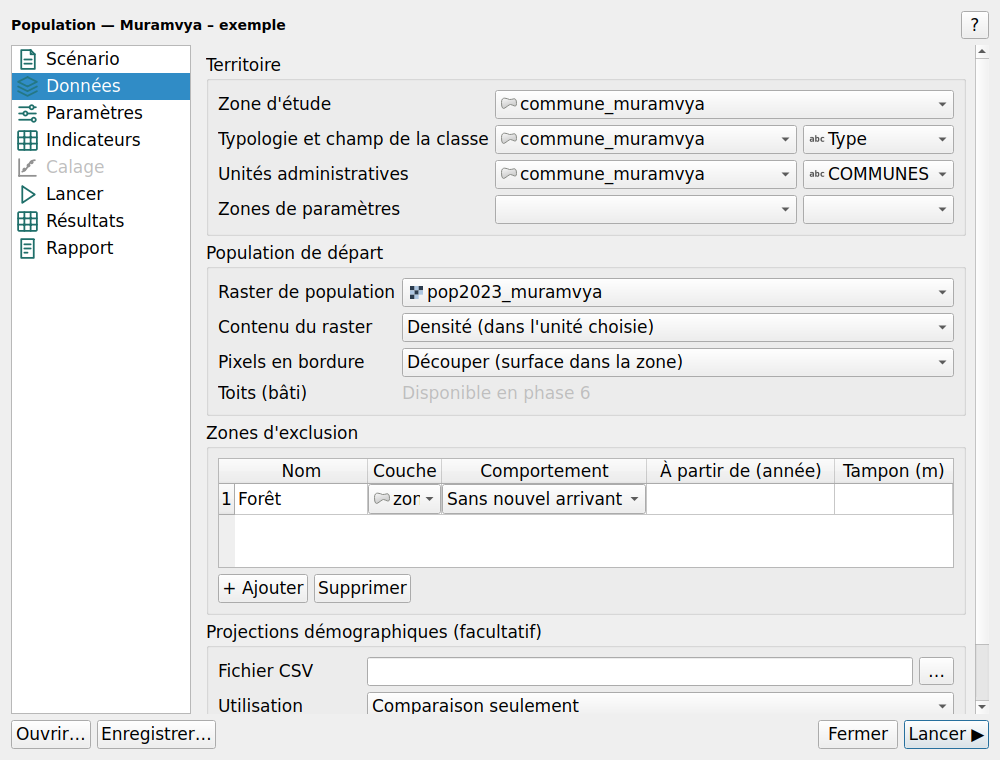
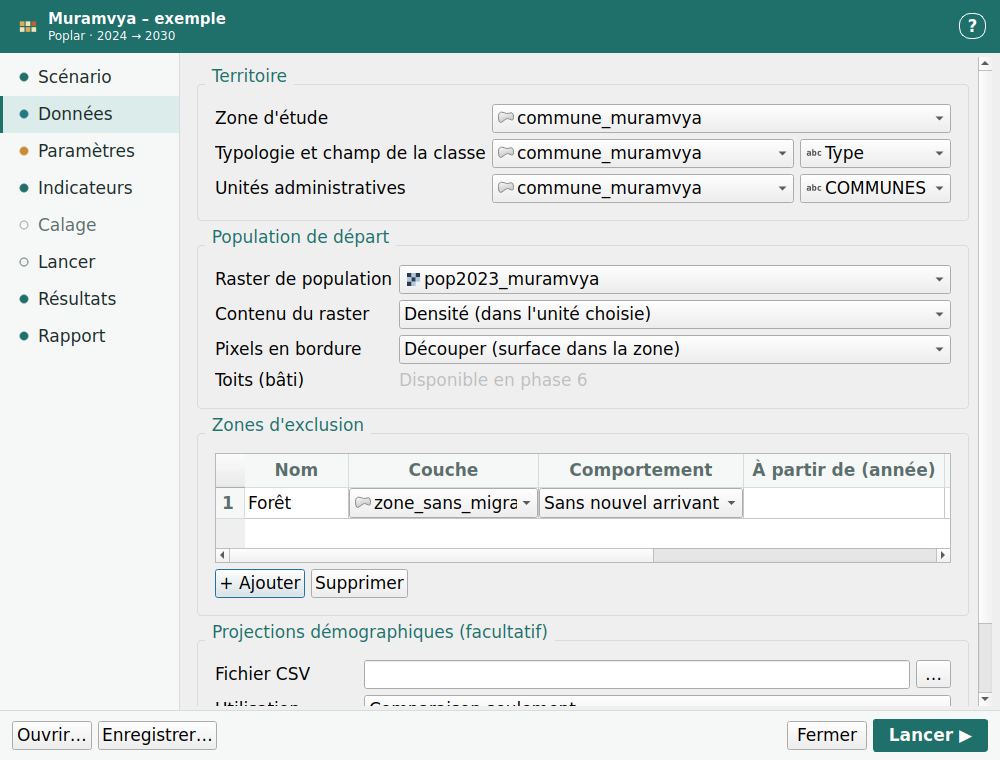
Nouvelle charte graphique du plugin (pétrole et ocre, variante sombre)
Bandeau titre avec le scénario et sa période, pastille d'état par onglet
(complet, à vérifier, vide), titres de section, bouton principal,
feuille de style Qt uniquement. Captures régénérées par
tools/capture_plugin.py, en clair et en sombre.

Claude-Session: https://claude.ai/code/session_01FtiHWBUMwcLLmZhJNMgosW

diff --git a/plugin/poplar/ui/main_dialog.py b/plugin/poplar/ui/main_dialog.py
@@ -19,13 +19,12 @@ from ..results import load_rasters
 from ..task import RunTask
 from .cleanup_dialog import CleanupDialog, run_title
 from .nonconvergence_dialog import NonConvergenceDialog
+from .style import state_icon, stylesheet, tokens
 from .pages import (
     CalibrationPage, DataPage, IndicatorsPage, ParametersPage, ReportPage, ResultsPage, RunPage, ScenarioPage,
 )
 
 ICONS = os.path.join(os.path.dirname(os.path.dirname(__file__)), "icons")
-PAGE_ICONS = {"scenario": "scenario", "data": "data", "parameters": "parameters", "indicators": "results",
-              "calibration": "calibration", "run": "run", "results": "results", "report": "report"}
 HELP_PAGES = {"scenario": "parametres_et_scenario", "data": "parametres_et_scenario",
               "parameters": "parametres_et_scenario", "indicators": "resultats_et_indicateurs",
               "calibration": "prise_en_main", "run": "non_convergence", "results": "resultats_et_indicateurs",
@@ -58,26 +57,46 @@ class MainDialog(QDialog):
         self.setWindowTitle(tr("main.title"))
         self.resize(980, 720)
 
+        self.colours = tokens(self)
+        self.setStyleSheet(stylesheet(self.colours))
+        self.last_check = None
         layout = QVBoxLayout(self)
-        header = QHBoxLayout()
+        layout.setContentsMargins(0, 0, 0, 0)
+        layout.setSpacing(0)
+        header_frame = QFrame()
+        header_frame.setObjectName("header")
+        header = QHBoxLayout(header_frame)
+        header.setContentsMargins(14, 10, 14, 10)
+        logo = QLabel()
+        logo.setPixmap(QIcon(os.path.join(ICONS, "poplar.svg")).pixmap(28, 28))
+        header.addWidget(logo)
+        titles = QVBoxLayout()
+        titles.setSpacing(0)
         self.title = QLabel()
-        self.title.setStyleSheet("font-weight: 600; font-size: 14px")
-        header.addWidget(self.title, 1)
+        self.title.setObjectName("title")
+        self.subtitle = QLabel()
+        self.subtitle.setObjectName("subtitle")
+        titles.addWidget(self.title)
+        titles.addWidget(self.subtitle)
+        header.addLayout(titles, 1)
         help_button = QToolButton()
+        help_button.setObjectName("help")
         help_button.setText("?")
         help_button.setToolTip(tip("main.help"))
         help_button.clicked.connect(lambda: self.help_opener(HELP_PAGES.get(self.current_key(), "prise_en_main")))
         header.addWidget(help_button)
-        layout.addLayout(header)
+        layout.addWidget(header_frame)
 
         body = QHBoxLayout()
+        body.setSpacing(0)
         self.tabs = QListWidget()
+        self.tabs.setObjectName("tabs")
         self.tabs.setFixedWidth(180)
         self.stack = QStackedWidget()
         self.pages = [ScenarioPage(self), DataPage(self), ParametersPage(self), IndicatorsPage(self),
                       CalibrationPage(self), RunPage(self), ResultsPage(self), ReportPage(self)]
         for page in self.pages:
-            item = QListWidgetItem(QIcon(os.path.join(ICONS, f"{PAGE_ICONS[page.key]}.svg")), tr(f"tab.{page.key}"))
+            item = QListWidgetItem(state_icon("empty", self.colours), tr(f"tab.{page.key}"))
             item.setToolTip(tip(f"tab.{page.key}"))
             if page.key == "calibration":
                 item.setFlags(item.flags() & ~Qt.ItemFlag.ItemIsEnabled)
@@ -89,10 +108,14 @@ class MainDialog(QDialog):
             self.stack.addWidget(scroll)
         self.tabs.currentRowChanged.connect(self._show_row)
         body.addWidget(self.tabs)
+        self.stack.setContentsMargins(8, 4, 8, 4)
         body.addWidget(self.stack, 1)
         layout.addLayout(body, 1)
 
-        footer = QHBoxLayout()
+        footer_frame = QFrame()
+        footer_frame.setObjectName("footer")
+        footer = QHBoxLayout(footer_frame)
+        footer.setContentsMargins(12, 8, 12, 8)
         for key, slot in (("main.open", self.open_scenario), ("main.save", self.save_scenario)):
             button = QPushButton(tr(key))
             button.setToolTip(tip(key))
@@ -102,11 +125,12 @@ class MainDialog(QDialog):
         close = QPushButton(tr("common.close"))
         close.clicked.connect(self.close)
         run = QPushButton(tr("main.run"))
+        run.setObjectName("primary")
         run.setDefault(True)
         run.clicked.connect(lambda: (self.show_page("run"), self.run()))
         footer.addWidget(close)
         footer.addWidget(run)
-        layout.addLayout(footer)
+        layout.addWidget(footer_frame)
 
         for page in self.pages:
             page.load(self.data)
@@ -132,8 +156,36 @@ class MainDialog(QDialog):
         self.pages[row].refresh()
 
     def _update_title(self):
-        name = self.data.get("name") or tr("main.untitled")
-        self.title.setText(tr("main.heading", name=name))
+        data = self.data
+        self.title.setText(data.get("name") or tr("main.untitled"))
+        time = data.get("time") or {}
+        if time.get("base_year") and time.get("end_year"):
+            self.subtitle.setText(tr("main.period", start=f"{float(time['base_year']):g}",
+                                     end=f"{float(time['end_year']):g}"))
+        self._update_states(data)
+
+    def _update_states(self, data):
+        """Dot of each tab: complete, to check, or empty."""
+        parameters = self.page("parameters").tables
+        output = self.absolute((data.get("output") or {}).get("directory", ""))
+        has_runs = bool(output) and bool(runs.list_runs(output) or os.path.exists(os.path.join(output, "report.txt")))
+        states = {
+            "scenario": "ok" if data.get("name") and output else "warn",
+            "data": "ok" if data.get("study_area") and data.get("typology") and
+                    (data.get("base_population") or {}).get("raster") else "warn",
+            "parameters": "ok" if all(w.store() for w in parameters.values()) and
+                          not any(w.unused_keys() for w in parameters.values()) else "warn",
+            "indicators": "ok" if data.get("indicators") else "empty",
+            "calibration": "empty",
+            "run": {None: "empty", True: "ok", False: "warn"}[self.last_check],
+            "results": "ok" if has_runs else "empty",
+            "report": "ok" if has_runs else "empty",
+        }
+        for row, page in enumerate(self.pages):
+            item = self.tabs.item(row)
+            if item.data(Qt.ItemDataRole.UserRole) != states[page.key]:
+                item.setData(Qt.ItemDataRole.UserRole, states[page.key])
+                item.setIcon(state_icon(states[page.key], self.colours))
 
     # --- scenario file ------------------------------------------------------------
 
@@ -203,6 +255,8 @@ class MainDialog(QDialog):
             scenario = self.scenario()
         except ScenarioError as error:
             page.show_checks([(False, m.render(language)) for m in error.messages])
+            self.last_check = False
+            self._update_states(self.data)
             return False
         items = [(True, tr("check.scenario_ok"))]
         for name in self.page("data").exclusions_without_buffer():
@@ -210,7 +264,9 @@ class MainDialog(QDialog):
         if not scenario.output_directory:
             items.append((False, tr("check.no_output")))
         page.show_checks(items)
-        return all(ok for ok, _ in items)
+        self.last_check = all(ok for ok, _ in items)
+        self._update_states(self.data)
+        return self.last_check
 
     def run(self):
         if self.task is not None or not self.check():

diff --git a/plugin/poplar/ui/style.py b/plugin/poplar/ui/style.py
@@ -1,0 +1,83 @@
+"""Graphic charter of the plugin (validated 29/09/2026): petrol and ochre, from the icon.
+
+Only a Qt style sheet and the system font: nothing to install, same look on
+QGIS 3.40 (Qt5) and QGIS 4 (Qt6). A dark variant follows dark QGIS themes
+(« Night Mapping »).
+"""
+
+from qgis.PyQt.QtCore import Qt
+from qgis.PyQt.QtGui import QColor, QIcon, QPainter, QPixmap
+
+LIGHT = {
+    "window": "#ffffff", "panel": "#f6f8f7", "line": "#d5dedc", "ink": "#1d2b2a", "muted": "#5c6e6c",
+    "teal": "#1f6f6a", "teal_soft": "#dcecea", "ochre": "#c98a36", "ochre_soft": "#f6e7cf", "on_teal": "#ffffff",
+}
+DARK = {
+    "window": "#1e2626", "panel": "#242e2e", "line": "#36443f", "ink": "#e4ecea", "muted": "#9aaeab",
+    "teal": "#4fa9a1", "teal_soft": "#22403d", "ochre": "#e0a85a", "ochre_soft": "#3f3322", "on_teal": "#0f1c1b",
+}
+STATES = ("ok", "warn", "empty")
+
+
+def is_dark(widget) -> bool:
+    return widget.palette().color(widget.backgroundRole()).lightness() < 128
+
+
+def tokens(widget):
+    return DARK if is_dark(widget) else LIGHT
+
+
+def stylesheet(t) -> str:
+    return f"""
+QFrame#header {{ background: {t['teal']}; border: none; }}
+QFrame#header QLabel {{ color: {t['on_teal']}; background: transparent; }}
+QLabel#title {{ font-size: 15px; font-weight: 600; }}
+QLabel#subtitle {{ font-size: 12px; }}
+QToolButton#help {{ color: {t['on_teal']}; border: 1px solid {t['on_teal']}; border-radius: 11px;
+    min-width: 20px; min-height: 20px; font-weight: 600; background: transparent; }}
+QToolButton#help:hover {{ background: rgba(255, 255, 255, 40); }}
+
+QListWidget#tabs {{ background: {t['panel']}; border: none; border-right: 1px solid {t['line']};
+    color: {t['ink']}; outline: 0; padding-top: 6px; }}
+QListWidget#tabs::item {{ padding: 7px 10px; border-left: 3px solid transparent; }}
+QListWidget#tabs::item:selected {{ background: {t['teal_soft']}; color: {t['ink']};
+    border-left: 3px solid {t['teal']}; font-weight: 600; }}
+QListWidget#tabs::item:disabled {{ color: {t['muted']}; }}
+
+QFrame#footer {{ background: {t['panel']}; border-top: 1px solid {t['line']}; }}
+
+QGroupBox {{ border: 1px solid {t['line']}; border-radius: 4px; margin-top: 18px; padding: 10px 8px 8px 8px; }}
+QGroupBox::title {{ subcontrol-origin: margin; subcontrol-position: top left; left: 8px; padding: 0 4px;
+    color: {t['teal']}; font-weight: 700; }}
+
+QPushButton#primary {{ background: {t['teal']}; color: {t['on_teal']}; border: 1px solid {t['teal']};
+    border-radius: 3px; padding: 5px 14px; font-weight: 600; }}
+QPushButton#primary:hover {{ background: {t['ink'] if t is DARK else '#185a56'}; }}
+QPushButton#primary:disabled {{ background: {t['line']}; border-color: {t['line']}; color: {t['muted']}; }}
+
+QLabel#chip {{ background: {t['teal_soft']}; color: {t['teal']}; border-radius: 9px; padding: 2px 9px;
+    font-weight: 600; }}
+QLabel#chip[state="warn"] {{ background: {t['ochre_soft']}; color: {t['ochre']}; }}
+
+QHeaderView::section {{ background: {t['panel']}; color: {t['muted']}; border: none;
+    border-bottom: 1px solid {t['line']}; border-right: 1px solid {t['line']}; padding: 4px 6px; font-weight: 600; }}
+"""
+
+
+def state_icon(state: str, t) -> QIcon:
+    """Small dot: complete (petrol), to check (ochre), empty (outline)."""
+    size = 16
+    pixmap = QPixmap(size, size)
+    pixmap.fill(Qt.GlobalColor.transparent)
+    painter = QPainter(pixmap)
+    painter.setRenderHint(QPainter.RenderHint.Antialiasing)
+    if state == "empty":
+        painter.setPen(QColor(t["muted"]))
+        painter.setBrush(Qt.BrushStyle.NoBrush)
+    else:
+        colour = QColor(t["teal"] if state == "ok" else t["ochre"])
+        painter.setPen(colour)
+        painter.setBrush(colour)
+    painter.drawEllipse(4, 4, 8, 8)
+    painter.end()
+    return QIcon(pixmap)

diff --git a/tools/capture_plugin.py b/tools/capture_plugin.py
@@ -1,0 +1,73 @@
+"""Screenshots of the plugin window on the Muramvya example (docs/captures/).
+
+Run headless: QT_QPA_PLATFORM=offscreen python3 tools/capture_plugin.py [--dark]
+"""
+
+import json
+import os
+import shutil
+import sys
+import tempfile
+
+REPO = os.path.dirname(os.path.dirname(os.path.abspath(__file__)))
+sys.path.insert(0, os.path.join(REPO, "tests_plugin"))
+
+from qgis_env import MURAMVYA, FakeIface  # noqa: E402  (starts QGIS)
+
+
+def main():
+    from qgis.core import QgsProject
+    from qgis.PyQt.QtGui import QColor, QPalette
+    from qgis.PyQt.QtWidgets import QApplication
+
+    dark = "--dark" in sys.argv
+    if dark:
+        palette = QPalette()
+        for role, colour in ((QPalette.ColorRole.Window, "#2b3030"), (QPalette.ColorRole.Base, "#1f2424"),
+                             (QPalette.ColorRole.WindowText, "#e4ecea"), (QPalette.ColorRole.Text, "#e4ecea"),
+                             (QPalette.ColorRole.Button, "#333a3a"), (QPalette.ColorRole.ButtonText, "#e4ecea")):
+            palette.setColor(role, QColor(colour))
+        QApplication.instance().setPalette(palette)
+
+    from poplar.task import RunTask
+    from poplar.ui.main_dialog import MainDialog
+
+    work = tempfile.mkdtemp()
+    with open(os.path.join(MURAMVYA, "scenario_muramvya.json"), encoding="utf-8") as handle:
+        data = json.load(handle)
+    for name in os.listdir(MURAMVYA):
+        if not os.path.isdir(os.path.join(MURAMVYA, name)):
+            shutil.copy(os.path.join(MURAMVYA, name), work)
+    data["time"]["end_year"] = 2030
+    data["time"]["output_years"] = []
+    path = os.path.join(work, "scenario.json")
+    with open(path, "w", encoding="utf-8") as handle:
+        json.dump(data, handle)
+
+    dialog = MainDialog(FakeIface(), lambda page: None)
+    dialog.load_file(path)
+    dialog.resize(1000, 760)
+    for _ in range(2):
+        task = RunTask(dialog.scenario(), "capture")
+        task.done.connect(dialog._finished)
+        task.run()
+        task.finished(True)
+    dialog.show()
+    suffix = "_dark" if dark else ""
+    out = os.path.join(REPO, "docs", "captures")
+    for key in ("scenario", "data", "parameters", "indicators", "run", "results", "report"):
+        dialog.show_page(key)
+        QApplication.processEvents()
+        dialog.grab().save(os.path.join(out, f"plugin_{key}{suffix}.png"))
+    from poplar.ui.cleanup_dialog import CleanupDialog
+
+    cleanup = CleanupDialog(dialog.output_directory(), dialog)
+    cleanup.show()
+    QApplication.processEvents()
+    cleanup.grab().save(os.path.join(out, f"plugin_cleanup{suffix}.png"))
+    QgsProject.instance().clear()
+    shutil.rmtree(work, ignore_errors=True)
+
+
+if __name__ == "__main__":
+    main()

diff --git a/plugin/poplar/ui/parameter_table.py b/plugin/poplar/ui/parameter_table.py
@@ -87,10 +87,13 @@ class ParameterTableWidget(QGroupBox):
             button.clicked.connect(slot)
             buttons.addWidget(button)
         buttons.addStretch(1)
+        layout.addLayout(buttons)
+        row = QHBoxLayout()
         self.status = QLabel()
         self.status.setObjectName("chip")
-        buttons.addWidget(self.status)
-        layout.addLayout(buttons)
+        row.addWidget(self.status)
+        row.addStretch(1)
+        layout.addLayout(row)
 
         self.cross.toggled.connect(self._cross_toggled)
         for combo in (self.layer, self.layer2):
@@ -238,8 +241,13 @@ class ParameterTableWidget(QGroupBox):
                 if key in unused:
                     item.setForeground(QBrush(MISSING))
                     item.setToolTip(tr("parameters.absent"))
+        self.status.setProperty("state", "warn" if unused else "ok")
+        self.status.style().unpolish(self.status)
+        self.status.style().polish(self.status)
         if unused:
-            self.status.setText(tr("parameters.status_absent", keys=", ".join(sorted(unused))))
+            keys = sorted(unused)
+            self.status.setText(tr("parameters.status_absent",
+                                   keys=", ".join(keys[:4]) + (f" (+{len(keys) - 4})" if len(keys) > 4 else "")))
         elif self.layer.currentLayer():
             self.status.setText(tr("parameters.status_zones", count=self.table.rowCount() - 1))
         else:

diff --git a/plugin/poplar/ui/cleanup_dialog.py b/plugin/poplar/ui/cleanup_dialog.py
@@ -27,7 +27,9 @@ def run_title(run) -> str:
 
 
 def format_size(size_bytes: int) -> str:
-    return tr("cleanup.size", size=f"{size_bytes / 1e6:,.0f}".replace(",", " "))
+    megabytes = size_bytes / 1e6
+    text = f"{megabytes:,.0f}".replace(",", " ") if megabytes >= 10 else f"{megabytes:.1f}".replace(".", ",")
+    return tr("cleanup.size", size=text)
 
 
 class CleanupDialog(QDialog):
@@ -39,7 +41,7 @@ class CleanupDialog(QDialog):
         self.deleted = []
         self.failed = []
         self.setWindowTitle(tr("cleanup.title"))
-        self.resize(760, 420)
+        self.resize(920, 420)
 
         layout = QVBoxLayout(self)
         intro = QLabel(tr(intro_key, folder=root))
@@ -50,7 +52,7 @@ class CleanupDialog(QDialog):
         self.table.setHorizontalHeaderLabels([tr(f"cleanup.column.{c}") for c in COLUMNS])
         self.table.verticalHeader().setVisible(False)
         self.table.horizontalHeader().setSectionResizeMode(QHeaderView.ResizeMode.ResizeToContents)
-        self.table.horizontalHeader().setSectionResizeMode(0, QHeaderView.ResizeMode.Stretch)
+        self.table.horizontalHeader().setStretchLastSection(True)
         proposed = runs.default_deletion(self.runs)
         for row, run in enumerate(self.runs):
             texts = [run_title(run), run.name, tr(f"cleanup.status.{run.status}"),

diff --git a/plugin/poplar/ui/pages.py b/plugin/poplar/ui/pages.py
@@ -191,6 +191,8 @@ class DataPage(Page):
         header = self.exclusions.horizontalHeader()
         header.setSectionResizeMode(QHeaderView.ResizeMode.ResizeToContents)
         header.setSectionResizeMode(0, QHeaderView.ResizeMode.Stretch)
+        header.setSectionResizeMode(1, QHeaderView.ResizeMode.Interactive)
+        self.exclusions.setColumnWidth(1, 190)
         self.exclusions.setMinimumHeight(110)
         inner.addWidget(self.exclusions)
         buttons = QHBoxLayout()
